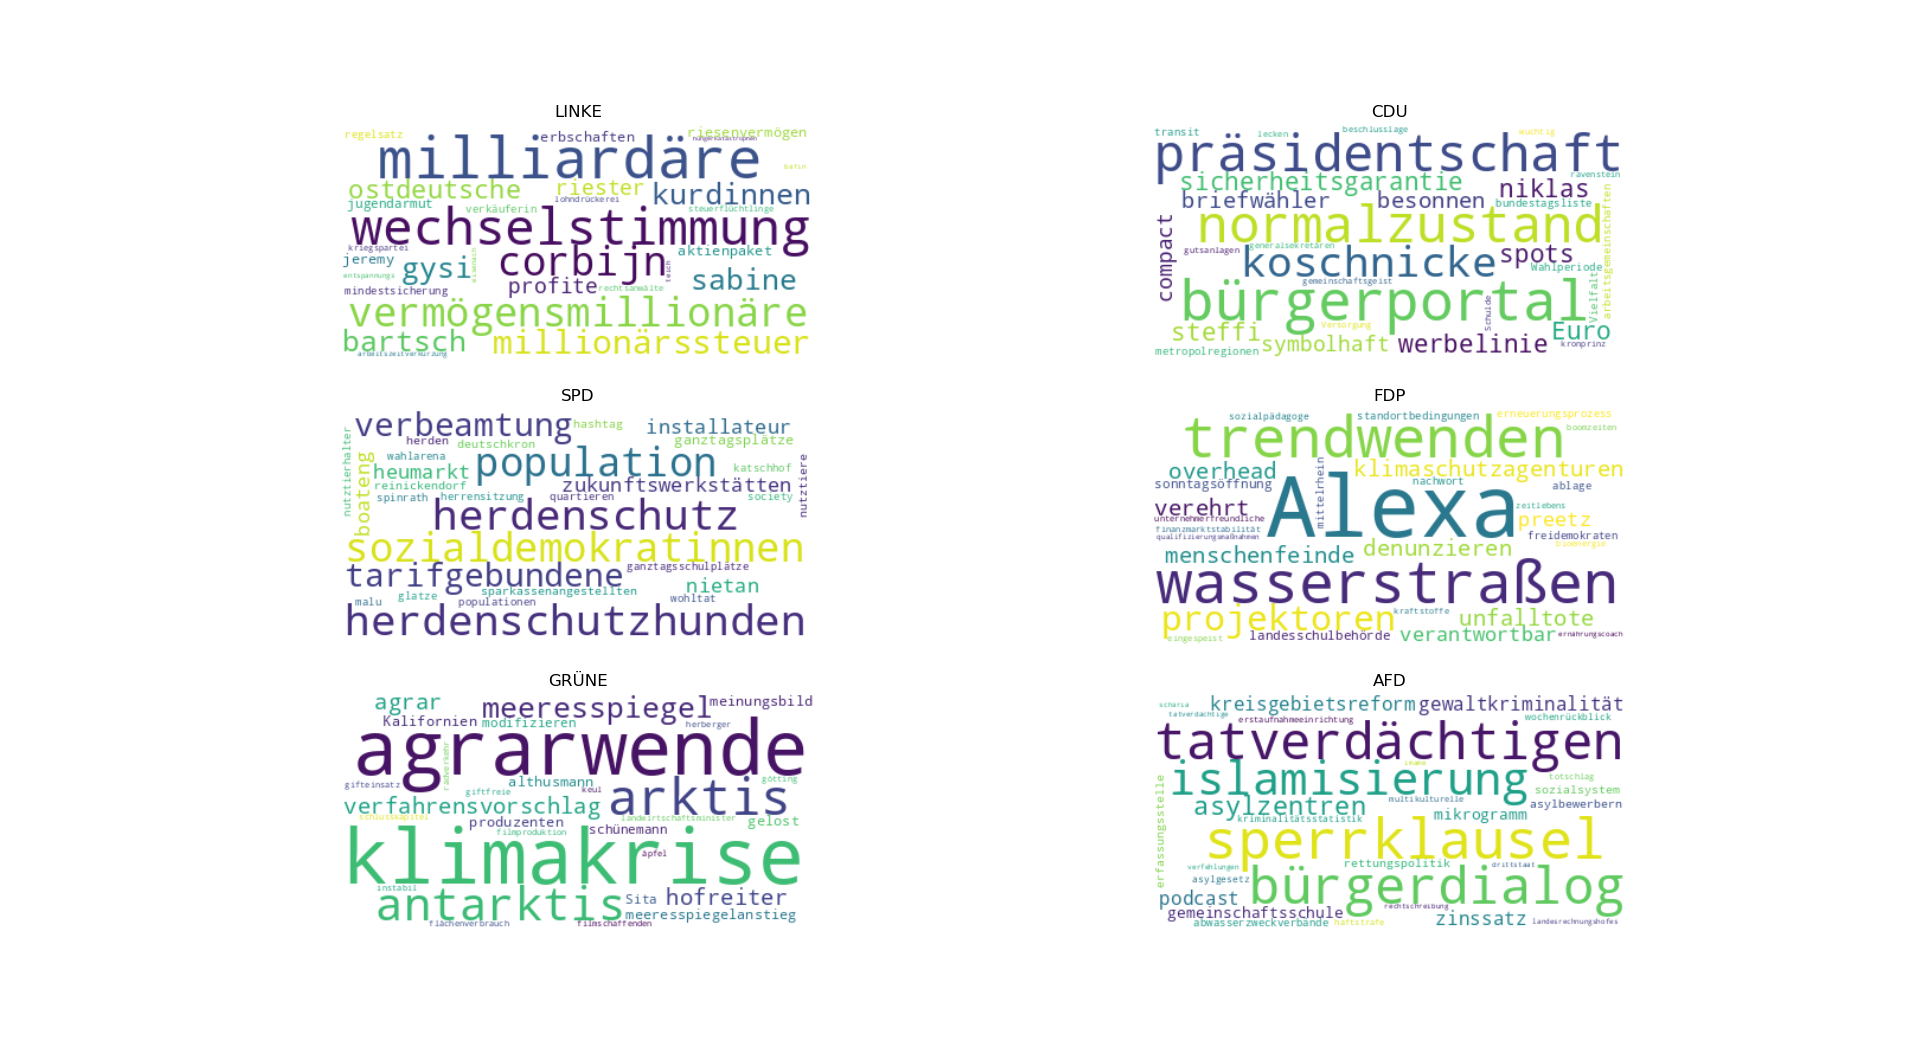
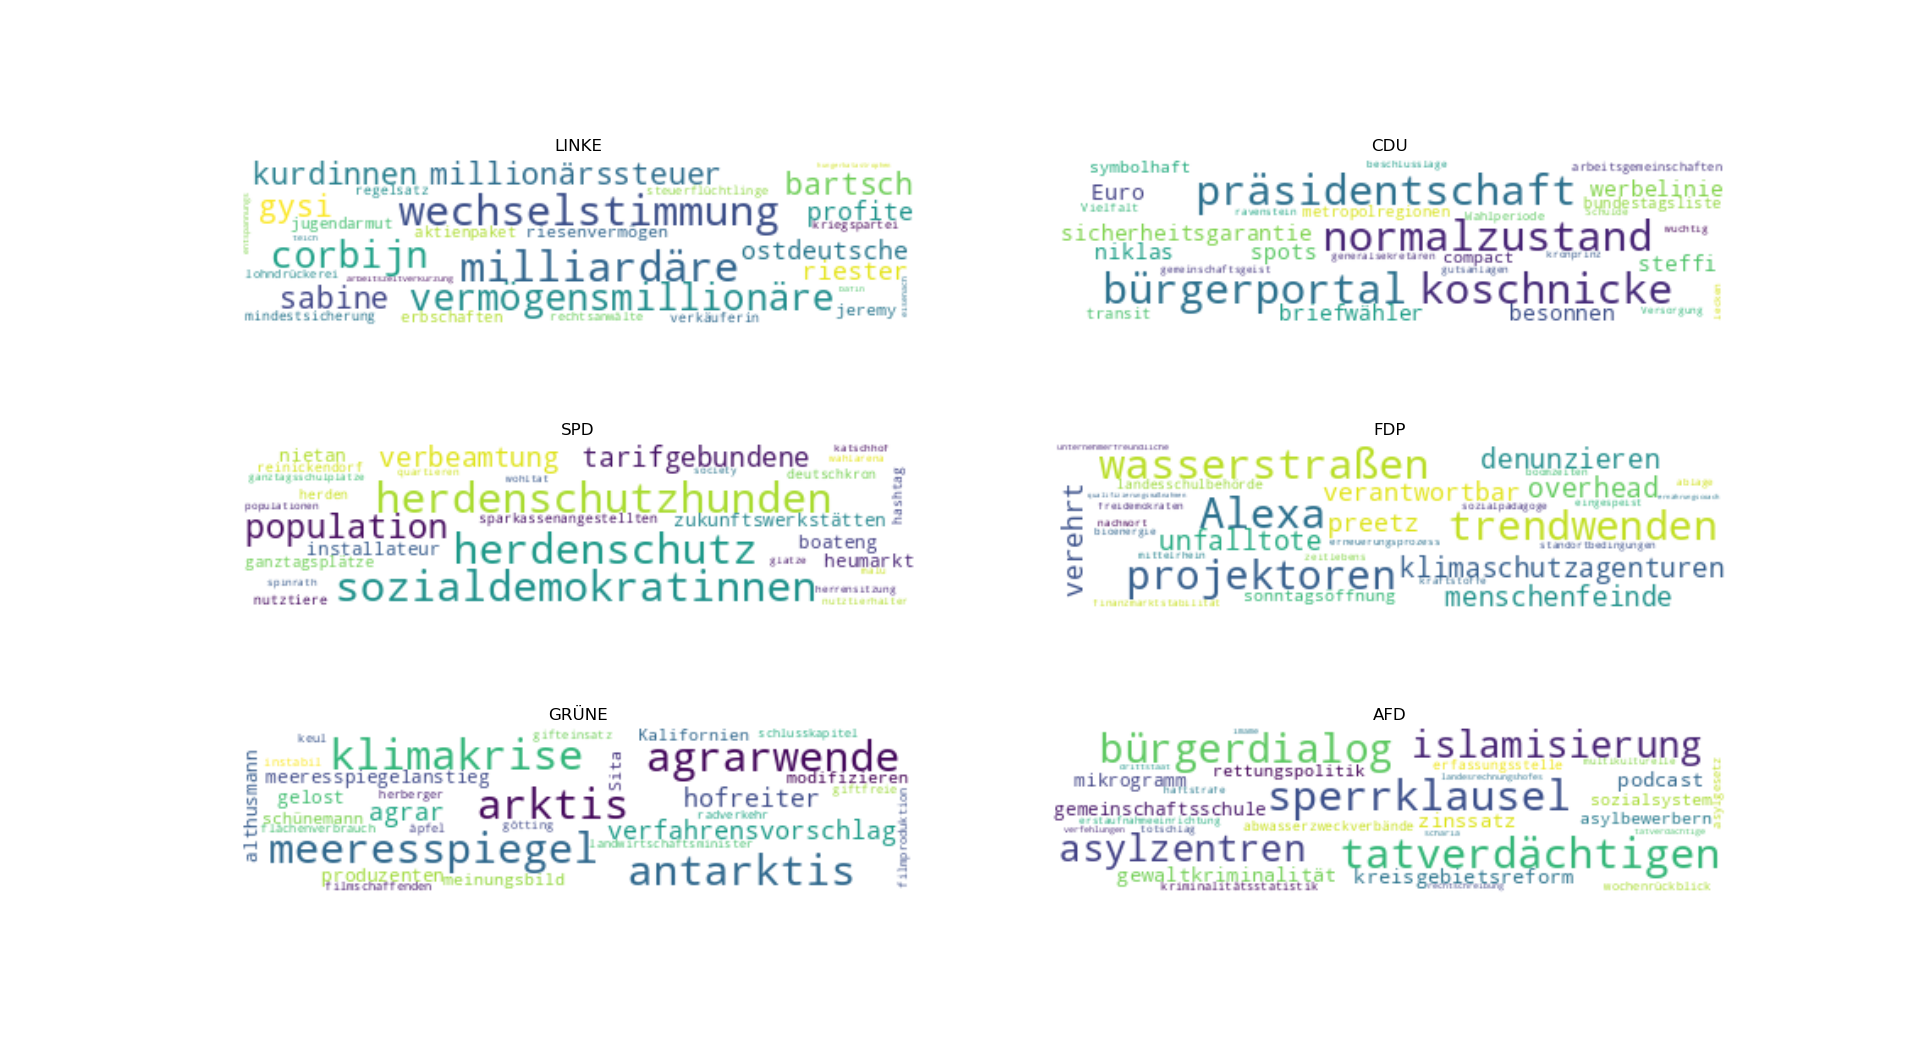
Add better sample picture

diff --git a/analysis/explore.py b/analysis/explore.py
@@ -59,18 +59,18 @@ for party in parties:
 # TF-IDF
 tfidfs = {party: tfidf(fdists, party) for party in parties}
 
-fig, axs = plt.subplots(3, 2)
+fig, axs = plt.subplots(3, 2, figsize=(15,30))
 axis = chain.from_iterable(zip(*axs))
 for party, ax in zip(parties, axis):
     ax.axis("off")
     ax.set_title(party.upper())
     word_weights = sorted(tfidfs[party], reverse=True, key=lambda x: x[1])[:30]
-    wordcloud = WordCloud(background_color='white').generate_from_frequencies(
+    wordcloud = WordCloud(background_color='white', max_font_size=25, height=100).generate_from_frequencies(
         dict(word_weights))
     ax.imshow(wordcloud, interpolation='bilinear')
 
 def tfidf(fdists, name):
-"""Term frequency - inverse document frequency."""
+    """Term frequency - inverse document frequency."""
 
     def tf(token, fdist):
         return 0.5 + (0.5 * fdist.get(token))/fdist.most_common(1)[0][1]
